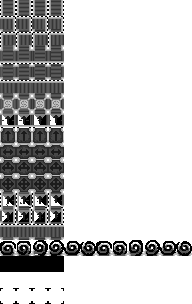
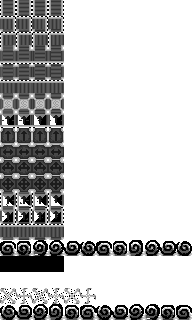
Updated textures

Changed region(s): [[0.0, 0.0, 1.0, 1.0]]

diff --git a/Machines/portal.js b/Machines/portal.js
@@ -5,7 +5,6 @@ import { intHex, addHex32 } from '../src/Helpers/colorHelpers.js';
 import { createCanvas, getImageId, getCanvasId, hexToRgba, getMaskedLayer } from './components/masking.js';
 
 const PORTAL_MASK = 0x000000FF;
-const CENTER_MASK = 0xFFFFFFFF;
 const DEFAULT_PORTAL_COLOR = 0x000000FF;
 const OUTPUT_CENTER_COLOR = 0xFF00FFFF; // magenta
 const COLOR_HOLD_MS = 1100;
@@ -105,11 +104,7 @@ export default class portal extends MachineBase {
 
     _getFrameIndex(frameLimit, fps) {
         const frame = Math.floor((performance.now() * fps) / 1000) % frameLimit;
-        return (frameLimit - 1 - frame + frameLimit) % frameLimit;
-    }
-
-    _getCenterMaskBaseColor() {
-        return OUTPUT_CENTER_COLOR;
+        return frame;
     }
 
     draw(ctx, x, y, size = 16) {
@@ -135,8 +130,7 @@ export default class portal extends MachineBase {
         const sy = Math.floor(tileIndex / cols) * th;
 
         const portalColor = intHex(this.color ?? DEFAULT_PORTAL_COLOR);
-        const centerColor = getRoleCenterColor(this._getCenterMaskBaseColor(), this._isUncoloredPortal());
-        const tileCanvas = getPortalTile(img, sx, sy, tw, th, portalColor, centerColor, PORTAL_MASK, CENTER_MASK);
+        const tileCanvas = getPortalTile(img, sx, sy, tw, th, portalColor, PORTAL_MASK);
 
         if (!this.rotating) {
             ctx.drawImage(tileCanvas, 0, 0, tw, th, x * size - size / 2, y * size - size / 2, size, size);
@@ -157,7 +151,6 @@ export default class portal extends MachineBase {
 const _portalTileCache = new Map();
 const _portalFrameCache = new Map();
 const _portalGradientFillCache = new Map();
-const _centerFillCache = new Map();
 // createCanvas, getImageId, getCanvasId, hexToRgba and getMaskedLayer
 // are provided by Machines/components/masking.js
 
@@ -170,18 +163,10 @@ function rgbaCss(r, g, b, aByte) {
     return `rgba(${clampByte(r)}, ${clampByte(g)}, ${clampByte(b)}, ${a})`;
 }
 
-function getRoleCenterColor(baseColor, uncolored) {
-    const [r, g, b, a] = hexToRgba(baseColor);
-    if (!uncolored) return intHex(baseColor);
-    const dim = 0.30;
-    const rr = clampByte(r * dim);
-    const gg = clampByte(g * dim);
-    const bb = clampByte(b * dim);
-    return (((rr & 0xFF) << 24) | ((gg & 0xFF) << 16) | ((bb & 0xFF) << 8) | (a & 0xFF)) >>> 0;
-}
 
-function getPortalFrameData(img, sx, sy, tw, th, portalMaskColor = PORTAL_MASK, centerMaskColor = CENTER_MASK) {
-    const frameKey = `${getImageId(img)}|${sx},${sy},${tw},${th}|pm:${intHex(portalMaskColor)}|cm:${intHex(centerMaskColor)}`;
+
+function getPortalFrameData(img, sx, sy, tw, th, portalMaskColor = PORTAL_MASK) {
+    const frameKey = `${getImageId(img)}|${sx},${sy},${tw},${th}|pm:${intHex(portalMaskColor)}`;
     if (_portalFrameCache.has(frameKey)) return _portalFrameCache.get(frameKey);
 
     const { canvas: frameCanvas, ctx: frameCtx } = createCanvas(tw, th);
@@ -189,20 +174,16 @@ function getPortalFrameData(img, sx, sy, tw, th, portalMaskColor = PORTAL_MASK, 
     frameCtx.drawImage(img, sx, sy, tw, th, 0, 0, tw, th);
 
     const { canvas: portalMaskCanvas, ctx: portalMaskCtx } = createCanvas(tw, th);
-    const { canvas: centerMaskCanvas, ctx: centerMaskCtx } = createCanvas(tw, th);
 
     const maskPortal = hexToRgba(portalMaskColor);
-    const maskCenter = hexToRgba(centerMaskColor);
 
     try {
         const idata = frameCtx.getImageData(0, 0, tw, th);
         const src = idata.data;
 
         const portalMaskData = portalMaskCtx.createImageData(tw, th);
-        const centerMaskData = centerMaskCtx.createImageData(tw, th);
 
         const p = portalMaskData.data;
-        const c = centerMaskData.data;
 
         for (let i = 0; i < src.length; i += 4) {
             const isPortal = (
@@ -211,12 +192,6 @@ function getPortalFrameData(img, sx, sy, tw, th, portalMaskColor = PORTAL_MASK, 
                 src[i + 2] === maskPortal[2] &&
                 src[i + 3] === maskPortal[3]
             );
-            const isCenter = (
-                src[i] === maskCenter[0] &&
-                src[i + 1] === maskCenter[1] &&
-                src[i + 2] === maskCenter[2] &&
-                src[i + 3] === maskCenter[3]
-            );
 
             if (isPortal) {
                 p[i] = 255;
@@ -224,21 +199,14 @@ function getPortalFrameData(img, sx, sy, tw, th, portalMaskColor = PORTAL_MASK, 
                 p[i + 2] = 255;
                 p[i + 3] = 255;
             }
-            if (isCenter) {
-                c[i] = 255;
-                c[i + 1] = 255;
-                c[i + 2] = 255;
-                c[i + 3] = 255;
-            }
         }
 
         portalMaskCtx.putImageData(portalMaskData, 0, 0);
-        centerMaskCtx.putImageData(centerMaskData, 0, 0);
     } catch (e) {
-        // ignore tainted canvas and keep empty masks
+        // ignore tainted canvas and keep empty mask
     }
 
-    const out = { frameCanvas, portalMaskCanvas, centerMaskCanvas };
+    const out = { frameCanvas, portalMaskCanvas };
     _portalFrameCache.set(frameKey, out);
     return out;
 }
@@ -269,37 +237,22 @@ function getSteppedGradientFillCanvas(tw, th, portalColor) {
     return canvas;
 }
 
-function getSolidFillCanvas(tw, th, color) {
-    const colorKey = intHex(color) >>> 0;
-    const key = `${tw}x${th}|${colorKey}`;
-    if (_centerFillCache.has(key)) return _centerFillCache.get(key);
 
-    const [r, g, b, a] = hexToRgba(colorKey);
-    const { canvas, ctx } = createCanvas(tw, th);
-    ctx.fillStyle = rgbaCss(r, g, b, a);
-    ctx.fillRect(0, 0, tw, th);
-
-    _centerFillCache.set(key, canvas);
-    return canvas;
-}
 
 // getMaskedLayer comes from masking component
 
-function getPortalTile(img, sx, sy, tw, th, portalColor, centerColor, portalMaskColor = PORTAL_MASK, centerMaskColor = CENTER_MASK) {
-    const id = `${getImageId(img)}|${sx},${sy},${tw},${th}|p:${(intHex(portalColor) >>> 0).toString(16)}|c:${(intHex(centerColor) >>> 0).toString(16)}`;
+function getPortalTile(img, sx, sy, tw, th, portalColor, portalMaskColor = PORTAL_MASK) {
+    const id = `${getImageId(img)}|${sx},${sy},${tw},${th}|p:${(intHex(portalColor) >>> 0).toString(16)}`;
     if (_portalTileCache.has(id)) return _portalTileCache.get(id);
 
-    const { frameCanvas, portalMaskCanvas, centerMaskCanvas } = getPortalFrameData(img, sx, sy, tw, th, portalMaskColor, centerMaskColor);
+    const { frameCanvas, portalMaskCanvas } = getPortalFrameData(img, sx, sy, tw, th, portalMaskColor);
     const portalFill = getSteppedGradientFillCanvas(tw, th, portalColor);
-    const centerFill = getSolidFillCanvas(tw, th, centerColor);
     const portalLayer = getMaskedLayer(portalFill, portalMaskCanvas);
-    const centerLayer = getMaskedLayer(centerFill, centerMaskCanvas);
 
     const { canvas, ctx } = createCanvas(tw, th);
     ctx.clearRect(0, 0, tw, th);
     ctx.drawImage(frameCanvas, 0, 0);
     ctx.drawImage(portalLayer, 0, 0);
-    ctx.drawImage(centerLayer, 0, 0);
 
     _portalTileCache.set(id, canvas);
     return canvas;

diff --git a/Machines/cloner.js b/Machines/cloner.js
@@ -7,6 +7,10 @@ const DEFAULT_CLONER_COLOR = 0x000000FF;
 export default class cloner extends MachineBase {
     constructor(name, machineData, manager) {
         super(name, machineData, manager);
+        // mask colors (defaults): lighter yellow, darker yellow
+        this.LIGHT_MASK = 0xFFC800FF;
+        this.DARK_MASK = 0xCBA000FF;
+
         this.color = DEFAULT_CLONER_COLOR;
         this.data.color = this.color;
         this._propagateAcc = 0;
@@ -326,11 +330,28 @@ export default class cloner extends MachineBase {
         const sy = Math.floor(tileIndex / cols) * th;
 
         // Cancel masking on grayscale corruption flicker frames.
-        const drawSource = flickerGrayFrame
-            ? img
-            : getColorizedTile(img, sx, sy, tw, th, this.color, DEFAULT_CLONER_COLOR);
+        let drawSource = img;
+        if (!flickerGrayFrame) {
+            const cval = (intHex(this.color ?? DEFAULT_CLONER_COLOR) >>> 0);
+            // If cloner has the default color, draw the original sprite (no masking)
+            if (cval !== (DEFAULT_CLONER_COLOR >>> 0)) {
+                const r = (cval >>> 24) & 0xFF;
+                const g = (cval >>> 16) & 0xFF;
+                const b = (cval >>> 8) & 0xFF;
+                const a = cval & 0xFF;
+
+                const lightMul = 1.0;
+                const darkMul = 0.75;
+
+                const light = ((((Math.round(r * lightMul) & 0xFF) << 24) | ((Math.round(g * lightMul) & 0xFF) << 16) | ((Math.round(b * lightMul) & 0xFF) << 8) | (a & 0xFF)) >>> 0);
+                const dark = ((((Math.round(r * darkMul) & 0xFF) << 24) | ((Math.round(g * darkMul) & 0xFF) << 16) | ((Math.round(b * darkMul) & 0xFF) << 8) | (a & 0xFF)) >>> 0);
+
+                drawSource = getColorizedTile(img, sx, sy, tw, th, light, this.LIGHT_MASK, dark, this.DARK_MASK);
+            }
+        }
+
         if (!this.rotating) {
-            if (flickerGrayFrame) {
+            if (flickerGrayFrame || drawSource === img) {
                 ctx.drawImage(drawSource, sx, sy, tw, th, x * size - size / 2, y * size - size / 2, size, size);
             } else {
                 ctx.drawImage(drawSource, 0, 0, tw, th, x * size - size / 2, y * size - size / 2, size, size);
@@ -343,7 +364,7 @@ export default class cloner extends MachineBase {
             } else {
                 ctx.rotate((this.extraRotation - this.rotating * Math.PI / 2));
             }
-            if (flickerGrayFrame) {
+            if (flickerGrayFrame || drawSource === img) {
                 ctx.drawImage(drawSource, sx, sy, tw, th, -size / 2, -size / 2, size, size);
             } else {
                 ctx.drawImage(drawSource, 0, 0, tw, th, -size / 2, -size / 2, size, size);
